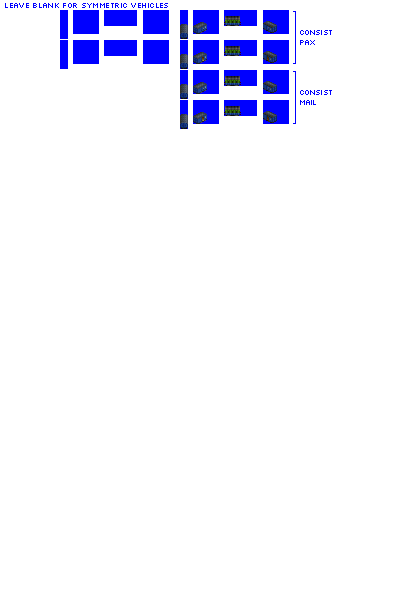
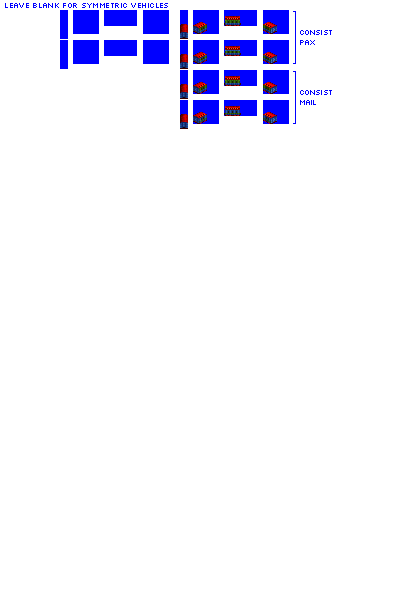
Change: WIP on NG gen 1A mail car

diff --git a/src/vehicles/mail_cars.py b/src/vehicles/mail_cars.py
@@ -12,7 +12,7 @@ def main():
     consist.add_unit(type=PaxMailCar,
                      capacity=12,
                      vehicle_length=4,
-                     chassis='2_axle_filled_16px')
+                     chassis='4_axle_ng_16px')
 
     #--------------- pony ----------------------------------------------------------------------
 
